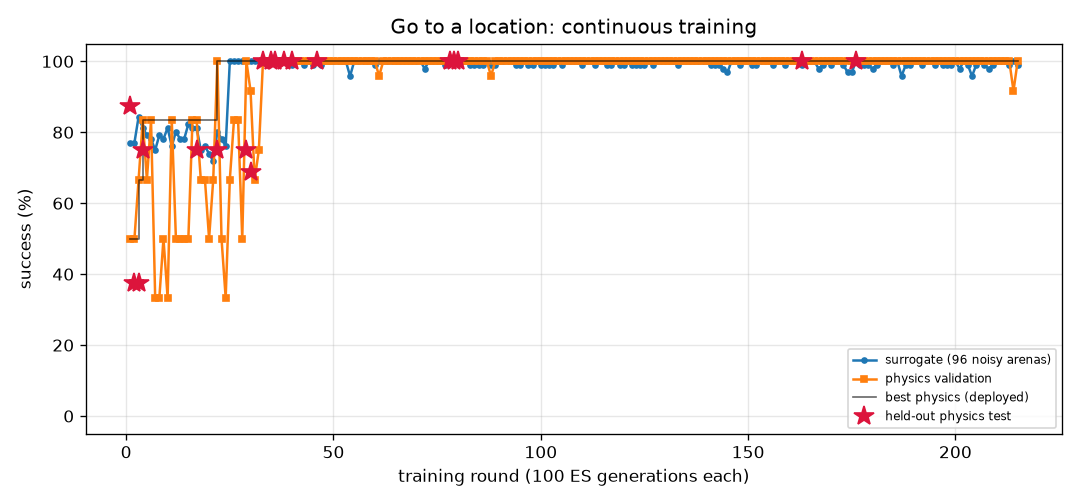
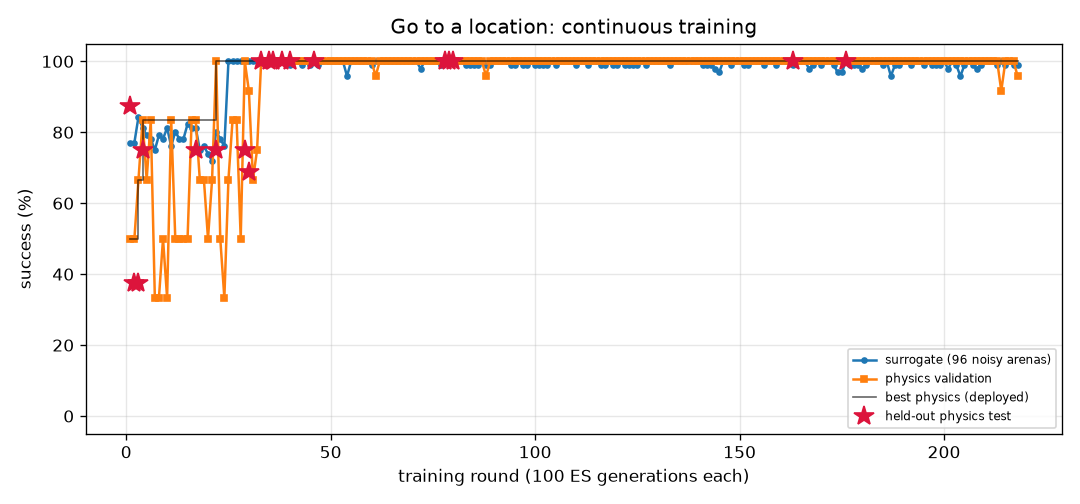
FlyLab: continuous training progress
- walk_forward: optimal, physics val 100% of 24, round 264
- turn: optimal, physics val 100% of 24, round 808
- goto: optimal, physics val 100% of 24, round 218
- odor_seek: optimal, physics val 100% of 24, round 185
- odor_avoid: optimal, physics val 100% of 24, round 740
- light_seek: optimal, physics val 100% of 24, round 412
- light_avoid: optimal, physics val 100% of 24, round 474

diff --git a/projects/09_flylab/training/odor_seek/REPORT.md b/projects/09_flylab/training/odor_seek/REPORT.md
@@ -1,14 +1,14 @@
 # Find food by smell (`odor_seek`) — training report
 
-*Auto-generated by `train_brains.py`, last updated 2026-11-01T21:51:18.*
+*Auto-generated by `train_brains.py`, last updated 2026-11-02T23:09:04.*
 
 ![curve](curve.png)
 
 | | |
 |---|---|
-| rounds | 182 |
-| ES generations | 18200 |
-| physics runs | 3798 |
+| rounds | 185 |
+| ES generations | 18500 |
+| physics runs | 3870 |
 | status | **optimal** |
 | best brain | round 137: physics validation **100%** on 24 arenas, surrogate 100% |
 | held-out physics test | **100%** on 32 unseen arenas (95% CI 89%-100%) (errors: [0.14, 0.05, 0.19, 0.15, 0.13, 0.08, 0.06, 0.06, 0.04, 0.06, 0.02, 0.11, 0.05, 0.1, 0.06, 0.01, 0.11, 0.12, 0.14, 0.08, 0.12, 0.06, 0.06, 0.09, 0.12, 0.05, 0.07, 0.07, 0.12, 0.11, 0.06, 0.11]) |
@@ -17,9 +17,6 @@ Physics error per arena: mm from target at the end (< 1.5 and standing still = s
 
 | round | level | gens | sigma | surrogate | physics val | val errors | test | note |
 |---:|---:|---:|---:|---:|---:|---|---:|---|
-| 143 | 3 | 14300 | 0.024 | 100% | 100% | [0.18, 0.18, 0.15, 0.2, 0.18, 0.21, 0.15, 0.16, 0.17, 0.21, 0.21, 0.17, 0.2, 0.2, 0.16, 0.2, 0.18, 0.18, 0.2, 0.19, 0.2, 0.24, 0.19, 0.15] |  |  |
-| 144 | 3 | 14400 | 0.024 | 100% | 100% | [0.23, 0.19, 0.16, 0.17, 0.22, 0.2, 0.2, 0.19, 0.23, 0.26, 0.14, 0.18, 0.09, 0.19, 0.25, 0.17, 0.16, 0.24, 0.19, 0.16, 0.16, 0.26, 0.19, 0.22] |  |  |
-| 145 | 3 | 14500 | 0.024 | 100% | 100% | [0.27, 0.22, 0.21, 0.23, 0.11, 0.19, 0.25, 0.13, 0.17, 0.2, 0.24, 0.16, 0.19, 0.17, 0.14, 0.18, 0.2, 0.17, 0.2, 0.21, 0.14, 0.24, 0.25, 0.21] |  | restart from best |
 | 146 | 3 | 14600 | 0.024 | 100% | 100% | [0.12, 0.06, 0.21, 0.09, 0.08, 0.17, 0.12, 0.17, 0.22, 0.08, 0.09, 0.06, 0.1, 0.15, 0.16, 0.15, 0.14, 0.07, 0.09, 0.22, 0.1, 0.11, 0.15, 0.08] |  |  |
 | 147 | 3 | 14700 | 0.024 | 100% | 100% | [0.07, 0.16, 0.05, 0.07, 0.08, 0.22, 0.08, 0.16, 0.13, 0.11, 0.05, 0.19, 0.14, 0.05, 0.06, 0.14, 0.1, 0.07, 0.15, 0.15, 0.03, 0.19, 0.16, 0.09] |  |  |
 | 148 | 3 | 14800 | 0.024 | 100% | 100% | [0.13, 0.25, 0.17, 0.21, 0.22, 0.12, 0.2, 0.24, 0.22, 0.14, 0.24, 0.17, 0.21, 0.14, 0.18, 0.14, 0.15, 0.19, 0.25, 0.14, 0.3, 0.16, 0.17, 0.16] |  |  |
@@ -57,3 +54,6 @@ Physics error per arena: mm from target at the end (< 1.5 and standing still = s
 | 180 | 3 | 18000 | 0.024 | 100% | 100% | [0.25, 0.23, 0.17, 0.25, 0.18, 0.18, 0.2, 0.19, 0.19, 0.17, 0.2, 0.22, 0.2, 0.19, 0.21, 0.25, 0.16, 0.24, 0.15, 0.2, 0.23, 0.27, 0.18, 0.18] |  |  |
 | 181 | 3 | 18100 | 0.024 | 100% | 100% | [0.19, 0.2, 0.2, 0.23, 0.23, 0.16, 0.18, 0.24, 0.18, 0.22, 0.2, 0.15, 0.12, 0.19, 0.16, 0.21, 0.13, 0.23, 0.18, 0.22, 0.17, 0.13, 0.18, 0.2] |  | restart from best |
 | 182 | 3 | 18200 | 0.024 | 100% | 100% | [0.15, 0.16, 0.19, 0.16, 0.14, 0.12, 0.12, 0.11, 0.1, 0.18, 0.13, 0.12, 0.1, 0.06, 0.09, 0.15, 0.05, 0.1, 0.2, 0.14, 0.05, 0.13, 0.08, 0.13] |  |  |
+| 183 | 3 | 18300 | 0.024 | 100% | 100% | [0.28, 0.13, 0.22, 0.13, 0.15, 0.12, 0.13, 0.2, 0.25, 0.19, 0.14, 0.22, 0.13, 0.15, 0.19, 0.19, 0.17, 0.18, 0.15, 0.15, 0.17, 0.11, 0.13, 0.13] |  |  |
+| 184 | 3 | 18400 | 0.024 | 100% | 100% | [0.17, 0.15, 0.25, 0.12, 0.17, 0.2, 0.18, 0.19, 0.18, 0.16, 0.2, 0.13, 0.19, 0.19, 0.17, 0.28, 0.21, 0.2, 0.22, 0.15, 0.17, 0.15, 0.14, 0.19] |  |  |
+| 185 | 3 | 18500 | 0.024 | 100% | 100% | [0.18, 0.18, 0.15, 0.21, 0.22, 0.15, 0.22, 0.13, 0.21, 0.25, 0.15, 0.16, 0.24, 0.18, 0.21, 0.18, 0.23, 0.23, 0.13, 0.16, 0.19, 0.21, 0.15, 0.2] |  | restart from best |

diff --git a/projects/09_flylab/training/goto/REPORT.md b/projects/09_flylab/training/goto/REPORT.md
@@ -1,14 +1,14 @@
 # Go to a location (`goto`) — training report
 
-*Auto-generated by `train_brains.py`, last updated 2026-11-02T22:16:04.*
+*Auto-generated by `train_brains.py`, last updated 2026-11-02T23:10:33.*
 
 ![curve](curve.png)
 
 | | |
 |---|---|
-| rounds | 215 |
-| ES generations | 21500 |
-| physics runs | 5110 |
+| rounds | 218 |
+| ES generations | 21800 |
+| physics runs | 5182 |
 | status | **optimal** |
 | best brain | round 176: physics validation **100%** on 24 arenas, surrogate 100% |
 | held-out physics test | **100%** on 32 unseen arenas (95% CI 89%-100%) (errors: [0.2, 0.32, 0.19, 0.24, 0.18, 0.2, 0.19, 0.17, 0.22, 0.23, 0.23, 0.26, 0.2, 0.19, 0.24, 0.23, 0.22, 0.24, 0.2, 0.22, 0.2, 0.2, 0.26, 0.19, 0.22, 0.18, 0.26, 0.22, 0.2, 0.26, 0.23, 0.23]) |
@@ -17,9 +17,6 @@ Physics error per arena: mm from target at the end (< 1.5 and standing still = s
 
 | round | level | gens | sigma | surrogate | physics val | val errors | test | note |
 |---:|---:|---:|---:|---:|---:|---|---:|---|
-| 176 | 3 | 17600 | 0.025 | 100% | 100% | [0.25, 0.25, 0.21, 0.23, 0.19, 0.23, 0.23, 0.25, 0.27, 0.17, 0.2, 0.23, 0.26, 0.22, 0.17, 0.21, 0.25, 0.22, 0.17, 0.23, 0.2, 0.18, 0.27, 0.25] | 100% | new best |
-| 177 | 3 | 17700 | 0.024 | 99% | 100% | [0.49, 0.54, 0.53, 0.47, 0.44, 0.45, 0.52, 0.53, 0.54, 0.45, 0.42, 0.44, 0.55, 0.47, 0.52, 0.54, 0.52, 0.5, 0.44, 0.52, 0.52, 0.43, 0.52, 0.48] |  |  |
-| 178 | 3 | 17800 | 0.025 | 99% | 100% | [0.49, 0.47, 0.47, 0.42, 0.33, 0.39, 0.46, 0.44, 0.49, 0.36, 0.35, 0.41, 0.48, 0.36, 0.41, 0.4, 0.52, 0.4, 0.34, 0.48, 0.39, 0.38, 0.51, 0.41] |  |  |
 | 179 | 3 | 17900 | 0.025 | 99% | 100% | [0.38, 0.42, 0.42, 0.34, 0.33, 0.34, 0.4, 0.41, 0.41, 0.32, 0.28, 0.32, 0.42, 0.35, 0.41, 0.41, 0.4, 0.34, 0.32, 0.4, 0.41, 0.33, 0.4, 0.36] |  |  |
 | 180 | 3 | 18000 | 0.025 | 98% | 100% | [0.39, 0.44, 0.44, 0.3, 0.33, 0.32, 0.38, 0.36, 0.33, 0.28, 0.3, 0.28, 0.36, 0.32, 0.4, 0.36, 0.38, 0.31, 0.3, 0.31, 0.36, 0.26, 0.38, 0.3] |  | restart from best |
 | 181 | 3 | 18100 | 0.024 | 99% | 100% | [0.53, 0.54, 0.43, 0.48, 0.4, 0.48, 0.51, 0.4, 0.55, 0.43, 0.41, 0.46, 0.54, 0.45, 0.48, 0.48, 0.55, 0.47, 0.4, 0.52, 0.47, 0.43, 0.52, 0.5] |  |  |
@@ -57,3 +54,6 @@ Physics error per arena: mm from target at the end (< 1.5 and standing still = s
 | 213 | 3 | 21300 | 0.024 | 99% | 100% | [0.59, 0.61, 0.48, 0.6, 0.49, 0.56, 0.59, 0.64, 0.61, 0.49, 0.5, 0.58, 0.58, 0.52, 0.5, 0.58, 0.62, 0.6, 0.5, 0.62, 0.56, 0.51, 0.58, 0.62] |  |  |
 | 214 | 3 | 21400 | 0.025 | 100% | 92% | [0.3, 0.34, 0.31, 0.25, 0.06, 0.14, 0.29, 0.28, 0.27, 0.21, 2.43, 0.26, 0.29, 0.26, 0.3, 0.3, 0.33, 0.35, 2.71, 0.27, 0.21, 0.24, 0.32, 0.24] |  |  |
 | 215 | 3 | 21500 | 0.024 | 99% | 100% | [0.48, 0.45, 0.35, 0.43, 0.34, 0.39, 0.5, 0.42, 0.44, 0.36, 0.38, 0.41, 0.45, 0.32, 0.39, 0.38, 0.48, 0.38, 0.34, 0.45, 0.35, 0.38, 0.47, 0.41] |  |  |
+| 216 | 3 | 21600 | 0.025 | 100% | 100% | [0.5, 0.51, 0.49, 0.39, 0.38, 0.4, 0.52, 0.45, 0.45, 0.37, 0.36, 0.38, 0.47, 0.38, 0.42, 0.45, 0.5, 0.4, 0.35, 0.44, 0.44, 0.36, 0.49, 0.38] |  | restart from best |
+| 217 | 3 | 21700 | 0.024 | 99% | 100% | [0.52, 0.53, 0.55, 0.55, 0.41, 0.49, 0.55, 0.53, 0.54, 0.44, 0.44, 0.52, 0.53, 0.42, 0.42, 0.47, 0.56, 0.49, 0.42, 0.53, 0.43, 0.42, 0.55, 0.51] |  |  |
+| 218 | 3 | 21800 | 0.025 | 99% | 96% | [0.44, 0.38, 0.36, 0.27, 0.24, 0.29, 0.39, 0.3, 0.34, 0.24, 0.25, 0.27, 0.35, 0.6, 0.3, 0.26, 0.35, 0.35, 0.26, 0.34, 0.27, 0.12, 0.35, 0.27] |  |  |

diff --git a/projects/09_flylab/training/TRAINING.md b/projects/09_flylab/training/TRAINING.md
@@ -1,6 +1,6 @@
 # FlyLab brains — continuous training log
 
-*Auto-generated by `train_brains.py`, last updated 2026-11-02T22:16:04.*
+*Auto-generated by `train_brains.py`, last updated 2026-11-02T23:10:33.*
 
 Every skill has its own brain and its own training process: surrogate ES rounds, physics validation in MuJoCo, keep-the-best selection, and a held-out physics test that is never used for selection. See each skill's report for its full round-by-round history. Mastery is progressive: passing a level (100% physics validation, >=95% surrogate) doubles the validation and test arena sets; a brain is **optimal** once it holds up at level 3 (>=95% of 24 validation arenas) AND scores >=90% on the 32 held-out test arenas. Test columns show 95% Wilson confidence intervals.
 
@@ -8,8 +8,8 @@ Every skill has its own brain and its own training process: surrogate ES rounds,
 |---|---:|---:|---:|---:|---:|---:|---|
 | [Walk forward](walk_forward/REPORT.md) | 264 | 26400 | 6350 | 100% | 100% of 24 | 100% of 32 (CI 89-100%) | **optimal** |
 | [Turn in place](turn/REPORT.md) | 808 | 80800 | 19638 | 100% | 100% of 24 | 97% of 32 (CI 84-99%) | **optimal** |
-| [Go to a location](goto/REPORT.md) | 215 | 21500 | 5110 | 100% | 100% of 24 | 100% of 32 (CI 89-100%) | **optimal** |
-| [Find food by smell](odor_seek/REPORT.md) | 182 | 18200 | 3798 | 100% | 100% of 24 | 100% of 32 (CI 89-100%) | **optimal** |
+| [Go to a location](goto/REPORT.md) | 218 | 21800 | 5182 | 100% | 100% of 24 | 100% of 32 (CI 89-100%) | **optimal** |
+| [Find food by smell](odor_seek/REPORT.md) | 185 | 18500 | 3870 | 100% | 100% of 24 | 100% of 32 (CI 89-100%) | **optimal** |
 | [Escape a bad smell](odor_avoid/REPORT.md) | 740 | 74000 | 15066 | 97% | 100% of 24 | 97% of 32 (CI 84-99%) | **optimal** |
 | [Walk toward light](light_seek/REPORT.md) | 412 | 41200 | 6768 | 100% | 100% of 24 | 100% of 32 (CI 89-100%) | **optimal** |
 | [Hide from light](light_avoid/REPORT.md) | 474 | 47400 | 11648 | 100% | 100% of 24 | 100% of 32 (CI 89-100%) | **optimal** |
